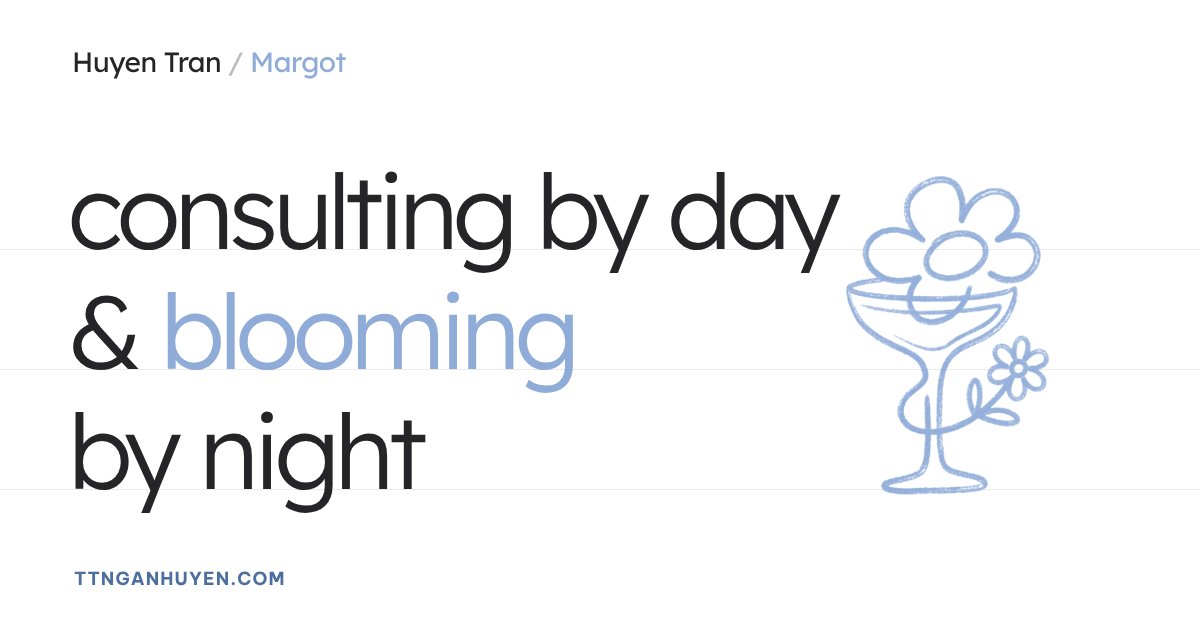
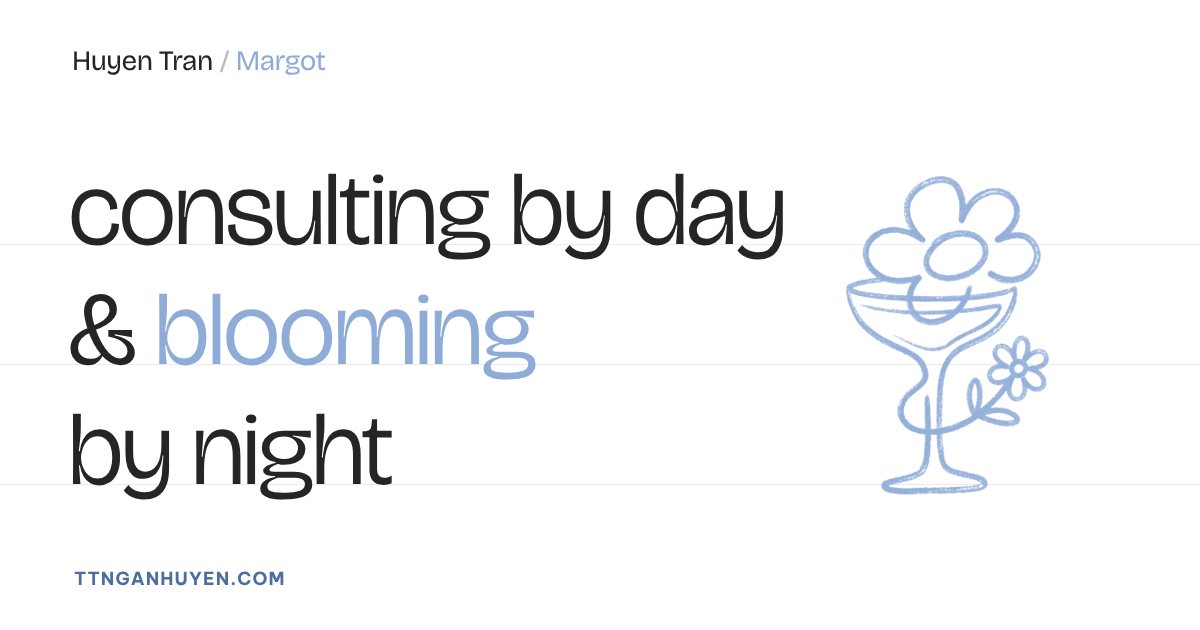
Switch display font from Lexend to Bricolage Grotesque
Loosen display tracking for Vietnamese diacritics, point the name
specimen glyph measuring at the new font, and redraw the og thumbnails.

Claude-Session: https://claude.ai/code/session_01BfwqXqjs3GJHHYhBT2Fe5m

Changed region(s): [[0.0617, 0.2714, 0.7092, 0.6333], [0.0617, 0.6635, 0.37, 0.8143], [0.0617, 0.0603, 0.3083, 0.1206]]

diff --git a/index.html b/index.html
@@ -23,7 +23,7 @@
 <meta name="claude:viewport-fit-sides" content="cover">
 <link rel="preconnect" href="https://fonts.googleapis.com">
 <link rel="preconnect" href="https://fonts.gstatic.com" crossorigin>
-<link rel="stylesheet" href="https://fonts.googleapis.com/css2?family=Lexend:wght@200;300;400;500;700&subset=vietnamese&display=swap">
+<link rel="stylesheet" href="https://fonts.googleapis.com/css2?family=Bricolage+Grotesque:opsz,wght@12..96,200..800&subset=vietnamese&display=swap">
 <style>
 /* Layout: untold-style paper page. Huge light headlines on faint ruled lines, inline photo boxes and hand-drawn figures between words, orange as the one loud colour. Deliberately single (light) theme: the dark loader is "night", the page that opens is "day". */
 :root {
@@ -37,7 +37,7 @@
   --yellow: #f1bf4f;
   --green: #4f9a6b;
   --night: #27272b;
-  --display: "Lexend", "Avenir Next", "Helvetica Neue", Arial, sans-serif;
+  --display: "Bricolage Grotesque", "Avenir Next", "Helvetica Neue", Arial, sans-serif;
   --body: ui-sans-serif, system-ui, -apple-system, "Segoe UI", Roboto, "Helvetica Neue", Arial, sans-serif;
   color-scheme: light;
 }
@@ -66,7 +66,7 @@ a { color: inherit; }
 /* ---------- Work page (untold /work) ---------- */
 .wk-intro { padding-top: clamp(120px, 18vh, 180px); padding-bottom: clamp(40px, 8vh, 90px); }
 .wk-intro .in { position: relative; }
-.wk-h { font-family: var(--display); font-weight: 400; font-size: clamp(3rem, 9.4vw, 9rem); letter-spacing: -0.055em; line-height: 1.12; margin: 26px 0 0; }
+.wk-h { font-family: var(--display); font-weight: 400; font-size: clamp(3rem, 9.4vw, 9rem); letter-spacing: -0.025em; line-height: 1.12; margin: 26px 0 0; }
 .wk-h > span { display: block; }
 @media (max-width: 760px) { .wk-h { font-size: min(3rem, 11vw); } .wk-h > span { white-space: nowrap; } }
 .wk-h .cur { height: .8em; vertical-align: -.04em; }
@@ -75,7 +75,7 @@ a { color: inherit; }
 .wk-item { display: grid; grid-template-columns: 70px minmax(0, 1fr) minmax(0, .62fr); gap: 0 clamp(20px, 3vw, 48px); padding: clamp(36px, 6vh, 64px) 0; border-bottom: 1px solid color-mix(in srgb, var(--ink) 14%, transparent); align-items: start; }
 .wk-mark { font-family: var(--body); font-weight: 800; font-size: .7rem; letter-spacing: .04em; text-transform: uppercase; line-height: 1.1; padding-top: .9em; color: var(--ink); }
 .wk-mark i { display: block; font-style: normal; font-weight: 400; color: var(--mute); margin-top: 4px; }
-.wk-item h3 { font-family: var(--display); font-weight: 300; font-size: clamp(2rem, 3.6vw, 3.4rem); letter-spacing: -0.04em; line-height: 1; text-transform: uppercase; margin: 0 0 22px; }
+.wk-item h3 { font-family: var(--display); font-weight: 300; font-size: clamp(2rem, 3.6vw, 3.4rem); letter-spacing: -0.018em; line-height: 1; text-transform: uppercase; margin: 0 0 22px; }
 .wk-item h3 a { color: inherit; text-decoration: none; } .wk-item h3 a:hover { color: var(--accent-ink); }
 .wk-item p { font-size: .92rem; line-height: 1.65; margin: 0 0 14px; max-width: 560px; color: #333; }
 .wk-item p b { font-weight: 700; color: var(--ink); }
@@ -83,7 +83,7 @@ a { color: inherit; }
 .wk-more b { display: grid; place-items: center; width: 20px; height: 20px; border-radius: 50%; border: 1px solid var(--orange); color: var(--accent-ink); font-size: .7rem; transition: background .3s, color .3s; }
 .wk-more:hover b { background: var(--ink); color: #fff; border-color: var(--ink); }
 .wk-pic { position: relative; aspect-ratio: 4 / 5; border-radius: 4px; overflow: hidden; display: grid; place-items: end start; padding: 18px; color: #fff; text-decoration: none; }
-.wk-pic span { font-family: var(--display); font-weight: 300; font-size: clamp(1.6rem, 3vw, 2.8rem); letter-spacing: -0.04em; line-height: 1; position: relative; }
+.wk-pic span { font-family: var(--display); font-weight: 300; font-size: clamp(1.6rem, 3vw, 2.8rem); letter-spacing: -0.018em; line-height: 1; position: relative; }
 .wk-pic::after { content: "photo coming soon"; position: absolute; top: 14px; right: 14px; font-size: .58rem; font-weight: 700; letter-spacing: .08em; text-transform: uppercase; opacity: .7; }
 .wk-pic { transition: transform .6s cubic-bezier(.2,.7,.2,1); } .wk-pic:hover { transform: scale(1.02); }
 .wk-next { padding-block: clamp(70px, 14vh, 150px); }
@@ -97,8 +97,8 @@ a { color: inherit; }
 .cs-title { display: flex; align-items: center; gap: clamp(16px, 3vw, 40px); }
 .cs-mark { flex: none; font-family: var(--body); font-weight: 800; font-size: .72rem; letter-spacing: .04em; text-transform: uppercase; color: var(--ink); white-space: nowrap; }
 .cs-mark::before { content: "( "; color: var(--mute); font-weight: 400; } .cs-mark::after { content: " )"; color: var(--mute); font-weight: 400; }
-.cs-title h1 { font-family: var(--display); font-weight: 300; font-size: clamp(2.8rem, 8vw, 8rem); letter-spacing: -0.055em; line-height: 1; margin: 0; }
-.cs-hero { margin-top: clamp(28px, 5vh, 56px); aspect-ratio: 16 / 7; border-radius: 4px; display: grid; place-items: center; color: #fff; font-family: var(--display); font-weight: 300; font-size: clamp(2rem, 5vw, 4.6rem); letter-spacing: -0.04em; text-align: center; padding: 20px; }
+.cs-title h1 { font-family: var(--display); font-weight: 300; font-size: clamp(2.8rem, 8vw, 8rem); letter-spacing: -0.025em; line-height: 1; margin: 0; }
+.cs-hero { margin-top: clamp(28px, 5vh, 56px); aspect-ratio: 16 / 7; border-radius: 4px; display: grid; place-items: center; color: #fff; font-family: var(--display); font-weight: 300; font-size: clamp(2rem, 5vw, 4.6rem); letter-spacing: -0.018em; text-align: center; padding: 20px; }
 .cs-body { padding-block: clamp(40px, 8vh, 90px); }
 .cs-grid { display: grid; grid-template-columns: minmax(0, 2fr) minmax(0, 1fr); gap: 32px clamp(32px, 6vw, 96px); }
 .cs-k { display: block; font-size: .62rem; font-weight: 700; letter-spacing: .08em; text-transform: uppercase; color: var(--mute); margin-bottom: 14px; }
@@ -109,11 +109,11 @@ a { color: inherit; }
 .cs-car .in { display: grid; grid-template-columns: auto minmax(0, 1fr) auto; align-items: center; gap: 16px; }
 .cs-frame { overflow: hidden; border-radius: 4px; max-width: 760px; width: 100%; justify-self: center; }
 .cs-track { display: flex; transition: transform .7s cubic-bezier(.6,0,.2,1); }
-.cs-slide { flex: 0 0 100%; aspect-ratio: 16 / 9; display: grid; place-items: center; color: var(--ink); background: color-mix(in srgb, var(--orange) 14%, var(--paper)); border: 1px dashed color-mix(in srgb, var(--accent-ink) 45%, transparent); font-family: var(--display); font-weight: 300; font-size: clamp(1.4rem, 3.4vw, 3rem); letter-spacing: -0.04em; text-align: center; padding: 24px; }
+.cs-slide { flex: 0 0 100%; aspect-ratio: 16 / 9; display: grid; place-items: center; color: var(--ink); background: color-mix(in srgb, var(--orange) 14%, var(--paper)); border: 1px dashed color-mix(in srgb, var(--accent-ink) 45%, transparent); font-family: var(--display); font-weight: 300; font-size: clamp(1.4rem, 3.4vw, 3rem); letter-spacing: -0.018em; text-align: center; padding: 24px; }
 .cs-arr { width: 40px; height: 40px; border-radius: 50%; border: 1px solid var(--orange); background: transparent; color: var(--accent-ink); cursor: pointer; font-size: 1rem; }
 .cs-arr:hover { background: var(--orange); color: var(--ink); }
 .cs-lib { padding-block: clamp(50px, 9vh, 100px) 0; }
-.cs-lib h2 { font-family: var(--display); font-weight: 300; font-size: clamp(2rem, 3.6vw, 3.2rem); letter-spacing: -0.04em; margin: 0 0 26px; }
+.cs-lib h2 { font-family: var(--display); font-weight: 300; font-size: clamp(2rem, 3.6vw, 3.2rem); letter-spacing: -0.018em; margin: 0 0 26px; }
 @media (max-width: 760px) {
   .wk-item { grid-template-columns: minmax(0, 1fr); }
   .wk-mark { padding: 0 0 10px; }
@@ -141,7 +141,7 @@ a { color: inherit; }
 .lg-tedx { flex-direction: row; flex-wrap: wrap; justify-content: center; max-width: 5.6em; font-weight: 900; letter-spacing: -.02em; } .lg-tedx i { font-style: normal; font-weight: 400; } .lg-tedx small { width: 100%; }
 .lg-sinno { font-weight: 700; } .lg-yln { font-weight: 300; letter-spacing: .28em; padding-left: .28em; }
 .lg-msb { font-style: italic; font-weight: 900; font-size: .86rem; letter-spacing: -.02em; }
-.lg-base { font-family: var(--display); font-weight: 700; font-size: 1rem; letter-spacing: -.05em; text-transform: lowercase; }
+.lg-base { font-family: var(--display); font-weight: 700; font-size: 1rem; letter-spacing: -0.023em; text-transform: lowercase; }
 .lg-fti { font-style: italic; font-weight: 900; font-size: .84rem; } .lg-fti small { font-style: normal; }
 .lg-mom { font-weight: 600; letter-spacing: -.01em; }
 .lg-or { font-family: Georgia, serif; font-style: italic; font-weight: 400; font-size: .74rem; letter-spacing: 0; }
@@ -152,7 +152,7 @@ a { color: inherit; }
 .shelf2::-webkit-scrollbar { display: none; }
 .book { position: relative; flex: none; width: var(--w); height: var(--h); background: #eceef1; color: var(--ink); text-decoration: none; display: flex; flex-direction: column; align-items: center; padding: 18px 0 20px; transform: rotate(var(--r)); transform-origin: 50% 100%; transition: transform .55s cubic-bezier(.2,.7,.2,1), background .4s, color .4s; }
 .book .lg { flex: none; transition: color .4s; }
-.book .bt { flex: none; margin: auto 0 0; writing-mode: vertical-rl; transform: rotate(180deg); white-space: nowrap; font-family: var(--display); font-weight: 400; letter-spacing: -0.01em; line-height: 1.15; font-size: min(calc(var(--w) * .3), 1.3rem); }
+.book .bt { flex: none; margin: auto 0 0; writing-mode: vertical-rl; transform: rotate(180deg); white-space: nowrap; font-family: var(--display); font-weight: 400; letter-spacing: -0.005em; line-height: 1.15; font-size: min(calc(var(--w) * .3), 1.3rem); }
 .book.t-u .bt { text-transform: uppercase; font-weight: 500; letter-spacing: .06em; font-size: min(calc(var(--w) * .26), 1rem); }
 .book.t-l .bt { font-weight: 300; font-size: min(calc(var(--w) * .3), 1.3rem); }
 .book .by { position: absolute; left: 50%; bottom: 100%; transform: translate(-50%, -8px); white-space: nowrap; font-style: normal; font-size: .64rem; font-weight: 700; letter-spacing: .06em; color: var(--mute); opacity: 0; transition: opacity .3s; pointer-events: none; }
@@ -176,10 +176,10 @@ a { color: inherit; }
 .eco-pin { position: sticky; top: 0; height: 100vh; overflow: hidden; }
 .eco-a, .eco-b { position: absolute; inset: 0; display: flex; flex-direction: column; align-items: center; justify-content: center; text-align: center; will-change: transform, opacity; }
 section[hidden] { display: none !important; }
-.eco-word { font-family: var(--display); font-weight: 400; font-size: clamp(6rem, 25vw, 23rem); letter-spacing: -0.075em; line-height: .9; margin: 18px 0 26px; padding-right: .06em; }
+.eco-word { font-family: var(--display); font-weight: 400; font-size: clamp(6rem, 25vw, 23rem); letter-spacing: -0.034em; line-height: .9; margin: 18px 0 26px; padding-right: .06em; }
 .eco-a .caption { margin: 0; }
 .eco-word .o { color: var(--orange); }
-.eco-h { font-family: var(--display); font-weight: 400; font-size: clamp(3.4rem, 10.4vw, 9.6rem); letter-spacing: -0.06em; line-height: .98; margin: 22px 0 34px; display: grid; justify-items: center; }
+.eco-h { font-family: var(--display); font-weight: 400; font-size: clamp(3.4rem, 10.4vw, 9.6rem); letter-spacing: -0.027em; line-height: .98; margin: 22px 0 34px; display: grid; justify-items: center; }
 .eco-h .e1 { display: flex; gap: .26em; transform: translateX(-.12em); } .eco-h .e2 { transform: translateX(.08em); } .eco-h .e3 { transform: translateX(.9em); }
 .eco-a { justify-content: flex-start; padding-top: 155px; } .eco-b { padding-top: clamp(0px, calc(30vh - 130px), 140px); opacity: 0; pointer-events: none; } .eco.on-b .eco-b { pointer-events: auto; }
 .eco-dots { position: absolute; inset: 0; pointer-events: none; }
@@ -204,16 +204,16 @@ section[hidden] { display: none !important; }
 @media (min-width: 761px) { .wk-h > span, .soon-h > span { white-space: nowrap; } }
 .soon { padding-block: clamp(130px, 20vh, 200px) clamp(70px, 12vh, 130px); }
 .soon .in { position: relative; }
-.soon-h { font-family: var(--display); font-weight: 400; font-size: clamp(3.2rem, 11vw, 10.4rem); letter-spacing: -0.06em; line-height: 1.02; margin: 26px 0 0; }
+.soon-h { font-family: var(--display); font-weight: 400; font-size: clamp(3.2rem, 11vw, 10.4rem); letter-spacing: -0.027em; line-height: 1.02; margin: 26px 0 0; }
 .soon-h > span { display: block; } .soon-h .s2 { padding-left: 1.1em; color: var(--orange); }
 /* phones: each line stays whole; the second line sits flush right instead of indented */
 @media (max-width: 760px) { .soon-h { font-size: min(3.2rem, 14.2vw); } .soon-h > span { white-space: nowrap; } .soon-h .s2 { padding-left: 0; text-align: right; } } .soon-h .cur { height: .78em; vertical-align: -.04em; }
 #v-consulting .soon-h { font-size: clamp(2rem, 9vw, 9.2rem); } /* longer headline than the other tabs */
-.soon-p { font-family: var(--display); font-weight: 300; font-size: clamp(1.1rem, 1.7vw, 1.5rem); letter-spacing: -0.02em; line-height: 1.45; max-width: 34ch; margin: 34px 0 0; }
+.soon-p { font-family: var(--display); font-weight: 300; font-size: clamp(1.1rem, 1.7vw, 1.5rem); letter-spacing: -0.009em; line-height: 1.45; max-width: 34ch; margin: 34px 0 0; }
 .soon-grid { display: grid; grid-template-columns: repeat(3, minmax(0, 1fr)); gap: clamp(14px, 2vw, 28px); margin-top: clamp(50px, 8vh, 90px); }
 .soon-card { position: relative; border: 1px dashed color-mix(in srgb, var(--accent-ink) 55%, transparent); border-radius: 6px; padding: 26px 24px 30px; min-height: 230px; display: flex; flex-direction: column; overflow: hidden; }
 .soon-card .k { font-size: .62rem; font-weight: 700; letter-spacing: .08em; text-transform: uppercase; color: var(--mute); }
-.soon-card h3 { font-family: var(--display); font-weight: 400; font-size: clamp(1.5rem, 2.2vw, 2.1rem); letter-spacing: -0.035em; line-height: 1.08; margin: 14px 0 12px; }
+.soon-card h3 { font-family: var(--display); font-weight: 400; font-size: clamp(1.5rem, 2.2vw, 2.1rem); letter-spacing: -0.016em; line-height: 1.08; margin: 14px 0 12px; }
 .soon-card p { font-size: .9rem; line-height: 1.6; color: #444; margin: 0; }
 .soon-card .tag { margin-top: auto; padding-top: 22px; font-size: .64rem; font-weight: 700; letter-spacing: .08em; text-transform: uppercase; color: var(--accent-ink); display: flex; align-items: center; gap: 8px; }
 .soon-card .tag::before { content: ""; width: 7px; height: 7px; border-radius: 50%; background: var(--orange); }
@@ -230,7 +230,7 @@ section[hidden] { display: none !important; }
 header.site { position: fixed; top: 0; left: 0; right: 0; z-index: 40; padding-top: calc(env(safe-area-inset-top, 0px) + 22px); padding-bottom: 14px; transition: background .3s; }
 header.site.scrolled { background: color-mix(in srgb, var(--paper) 86%, transparent); backdrop-filter: blur(6px); }
 header.site .in { display: grid; grid-template-columns: auto 1fr auto; align-items: center; gap: 16px; }
-.logo { font-family: var(--display); font-weight: 300; font-size: clamp(1.1rem, 1.6vw, 1.5rem); letter-spacing: -0.03em; text-decoration: none; white-space: nowrap; }
+.logo { font-family: var(--display); font-weight: 300; font-size: clamp(1.1rem, 1.6vw, 1.5rem); letter-spacing: -0.013em; text-decoration: none; white-space: nowrap; }
 .logo .sl { color: var(--orange); margin: 0 .12em; }
 .logo .cur { width: 1.5px; }
 .logo .mg { color: var(--orange); } .logo .cur { background: var(--orange); } #menu .logo .mg { color: #fff; }
@@ -267,7 +267,7 @@ nav.main a:hover::before { transform: scale(1); }
 .close { width: 64px; height: 64px; border-radius: 50%; background: #fff; border: 0; cursor: pointer; display: grid; place-items: center; color: var(--orange); font-size: 1.4rem; transition: transform .3s; }
 .close:hover { transform: rotate(90deg); }
 #menu .grid { position: relative; display: grid; grid-template-columns: 1fr 1fr; align-content: center; gap: 2vh 6vw; }
-#menu .grid a { white-space: nowrap; font-family: var(--display); font-weight: 300; font-size: clamp(2.2rem, min(6.6vw, 11vh), 7rem); line-height: 1.05; letter-spacing: -0.045em; text-decoration: none; position: relative; z-index: 1; padding-bottom: .08em; transition: color .25s, transform .35s; }
+#menu .grid a { white-space: nowrap; font-family: var(--display); font-weight: 300; font-size: clamp(2.2rem, min(6.6vw, 11vh), 7rem); line-height: 1.05; letter-spacing: -0.020em; text-decoration: none; position: relative; z-index: 1; padding-bottom: .08em; transition: color .25s, transform .35s; }
 #menu .grid a:nth-of-type(even), #menu .grid a.m-right { text-align: right; } #menu .grid a.m-right { grid-column: 2; }
 #menu .grid a.m-right:hover { transform: translateX(-12px); }
 #menu .grid a:hover { color: #fff; transform: translateX(12px); }
@@ -276,7 +276,7 @@ nav.main a:hover::before { transform: scale(1); }
 #menu .thread path { fill: none; stroke: #fff; stroke-width: 2.5; stroke-linecap: round; stroke-dasharray: 1; stroke-dashoffset: 1; }
 #menu.open .thread path { transition: stroke-dashoffset 1.8s cubic-bezier(.45,.05,.3,1) .35s; stroke-dashoffset: 0; }
 #menu .bottom { display: flex; justify-content: space-between; align-items: end; flex-wrap: wrap; gap: 16px; }
-#menu .tagline { font-family: var(--display); font-weight: 300; font-size: clamp(1.3rem, 2.6vw, 2.4rem); letter-spacing: -0.03em; margin: 0; }
+#menu .tagline { font-family: var(--display); font-weight: 300; font-size: clamp(1.3rem, 2.6vw, 2.4rem); letter-spacing: -0.013em; margin: 0; }
 #menu .pill { display: flex; align-items: center; gap: 12px; font-weight: 700; font-size: .8rem; }
 #menu .pill button { font: inherit; background: none; border: 1.5px solid #fff; border-radius: 999px; padding: 8px 18px; cursor: pointer; color: var(--ink); }
 #menu .pill button[aria-pressed="true"] { background: #fff; }
@@ -287,7 +287,7 @@ nav.main a:hover::before { transform: scale(1); }
 .rules { position: absolute; inset: 0; pointer-events: none; opacity: 0; transition: opacity .8s; }
 .rules.on { opacity: 1; }
 .rules div { position: absolute; height: 1px; background: color-mix(in srgb, var(--ink) 6%, transparent); transform: scaleY(.6); transform-origin: top; }
-.big { font-family: var(--display); font-weight: 400; letter-spacing: -0.055em; line-height: 1.02; font-size: clamp(2.4rem, min(9.6vw, 16.8vh), 8.7rem); margin: 0; position: relative; z-index: 1; }
+.big { font-family: var(--display); font-weight: 400; letter-spacing: -0.025em; line-height: 1.02; font-size: clamp(2.4rem, min(9.6vw, 16.8vh), 8.7rem); margin: 0; position: relative; z-index: 1; }
 .big .ln { display: flex; align-items: baseline; gap: 0.08em; white-space: nowrap; }
 .big .bl { display: inline-block; width: 0; height: 0; }
 .big .l1 { padding-left: 1%; }
@@ -389,7 +389,7 @@ body.ready .reveal .d1 { transition-delay: .05s; } body.ready .reveal .d2 { tran
 .scroll span { writing-mode: vertical-rl; transform: rotate(180deg); font-weight: 700; font-size: .72rem; letter-spacing: .04em; }
 .scroll i { width: 38px; height: 38px; border: 1.5px solid var(--orange); border-radius: 50%; display: grid; place-items: center; color: var(--orange); animation: bob 2s ease-in-out infinite; transition: background .3s, color .3s; }
 .scroll:hover i { background: var(--orange); color: #fff; }
-.hero .side em { font-family: var(--display); font-style: normal; font-weight: 400; font-size: 1.05em; letter-spacing: -0.01em; line-height: 1.5; display: block; margin: 0 0 .5em; }
+.hero .side em { font-family: var(--display); font-style: normal; font-weight: 400; font-size: 1.05em; letter-spacing: -0.005em; line-height: 1.5; display: block; margin: 0 0 .5em; }
 
 .btn { display: inline-flex; align-items: center; gap: 10px; background: var(--orange); color: var(--ink); text-decoration: none; font-weight: 700; text-transform: uppercase; letter-spacing: 0.03em; padding: 12px 20px; border: 0; cursor: pointer; font-family: var(--body); font-size: .76rem; line-height: 1; transition: background .3s, color .3s; }
 .btn::before { content: ""; width: 6px; height: 6px; border-radius: 50%; background: #fff; transition: transform .3s; }
@@ -401,10 +401,10 @@ body.ready .reveal .d1 { transition-delay: .05s; } body.ready .reveal .d2 { tran
 /* ---------- Sections ---------- */
 section.s { padding-block: clamp(26px, 4.5vh, 54px); position: relative; }
 .center { text-align: center; }
-.statement { font-family: var(--display); font-weight: 300; font-size: clamp(1.6rem, 3.2vw, 3.2rem); line-height: 1.25; letter-spacing: -0.04em; max-width: 26ch; margin: 28px auto 0; text-wrap: pretty; }
+.statement { font-family: var(--display); font-weight: 300; font-size: clamp(1.6rem, 3.2vw, 3.2rem); line-height: 1.25; letter-spacing: -0.018em; max-width: 26ch; margin: 28px auto 0; text-wrap: pretty; }
 .hl { background: linear-gradient(var(--ink), var(--ink)) no-repeat 0 0 / 0% 100%; transition: background-size .9s cubic-bezier(.6,0,.2,1), color .5s; padding: 0 .08em; -webkit-box-decoration-break: clone; box-decoration-break: clone; }
 .hl.lit, .hl:hover { background-size: 100% 100%; color: var(--paper); }
-.names-h { font-family: var(--display); font-weight: 300; font-size: clamp(1.8rem, 3.4vw, 3.2rem); letter-spacing: -0.04em; line-height: 1.15; margin: 24px 0 0; }
+.names-h { font-family: var(--display); font-weight: 300; font-size: clamp(1.8rem, 3.4vw, 3.2rem); letter-spacing: -0.018em; line-height: 1.15; margin: 24px 0 0; }
 /* About: a type specimen of her three names, after her "Bút ký / Ký danh" page */
 .spec { margin-top: clamp(28px, 5vh, 56px); }
 .spec-scroll { overflow-x: auto; scrollbar-width: none; }
@@ -451,7 +451,7 @@ section.s { padding-block: clamp(26px, 4.5vh, 54px); position: relative; }
 .nc-reset, .nc-reset * { transition: none !important; }
 .spec.hieu { display: flex; align-items: flex-end; justify-content: space-between; gap: 40px; flex-wrap: wrap; }
 .spec.hieu .tale { width: min(420px, 100%); margin-bottom: .6em; }
-.margot { font-family: var(--display); font-weight: 200; font-style: italic; color: var(--ink); font-size: clamp(3rem, 8.6vw, 8.2rem); line-height: 1; letter-spacing: -0.02em; margin-left: auto; white-space: nowrap; }
+.margot { font-family: var(--display); font-weight: 200; font-style: italic; color: var(--ink); font-size: clamp(3rem, 8.6vw, 8.2rem); line-height: 1; letter-spacing: -0.009em; margin-left: auto; white-space: nowrap; }
 .margot .cur { width: 2px; min-width: 2px; }
 .margot { position: relative; }
 .margot .mg-guides { position: absolute; left: -.2em; top: 0; height: 100%; overflow: visible; pointer-events: none; z-index: -1; }
@@ -464,11 +464,11 @@ section.s { padding-block: clamp(26px, 4.5vh, 54px); position: relative; }
 }
 .doodle { width: clamp(120px, 14vw, 200px); height: auto; display: block; }
 
-.typed { font-family: var(--display); font-weight: 400; font-size: clamp(2.6rem, 7vw, 7rem); line-height: .98; letter-spacing: -0.055em; margin: 22px 0 0; }
+.typed { font-family: var(--display); font-weight: 400; font-size: clamp(2.6rem, 7vw, 7rem); line-height: .98; letter-spacing: -0.025em; margin: 22px 0 0; }
 .typed > span { display: block; }
 .circles { display: flex; flex-wrap: wrap; justify-content: center; gap: 0; margin-top: 64px; }
 .circle { width: clamp(130px, 12vw, 180px); aspect-ratio: 1; max-width: 100%; border-radius: 50%; border: 1.5px solid var(--orange); display: grid; place-items: center; text-align: center; padding: 18px; margin: 0 -10px; background: color-mix(in srgb, var(--paper) 70%, transparent); backdrop-filter: blur(4px); transition: background .35s, transform .35s, color .35s; position: relative; }
-.circle .n { font-family: var(--display); font-size: clamp(1.05rem, 1.5vw, 1.4rem); letter-spacing: -0.02em; line-height: 1.1; }
+.circle .n { font-family: var(--display); font-size: clamp(1.05rem, 1.5vw, 1.4rem); letter-spacing: -0.009em; line-height: 1.1; }
 .circle .r { font-size: .78rem; color: var(--mute); margin-top: 6px; }
 .circle:hover { background: var(--orange); transform: translateY(-10px); z-index: 2; }
 .circle:hover .r { color: var(--ink); }
@@ -476,11 +476,11 @@ section.s { padding-block: clamp(26px, 4.5vh, 54px); position: relative; }
 .caption b { font-weight: 700; }
 
 .split { display: grid; grid-template-columns: minmax(0, 5fr) minmax(0, 7fr); gap: 48px; align-items: end; }
-.split h2, .headline { font-family: var(--display); font-weight: 300; font-size: clamp(2.4rem, 5.4vw, 5.4rem); line-height: .98; letter-spacing: -0.05em; margin: 18px 0 0; }
+.split h2, .headline { font-family: var(--display); font-weight: 300; font-size: clamp(2.4rem, 5.4vw, 5.4rem); line-height: .98; letter-spacing: -0.023em; margin: 18px 0 0; }
 .rows { list-style: none; margin: 0; padding: 0; border-top: 1.5px solid var(--ink); }
 .rows li a { display: grid; grid-template-columns: 5rem minmax(0, 1fr) auto; gap: 16px; align-items: baseline; padding: 22px 12px; border-bottom: 1px solid color-mix(in srgb, var(--ink) 18%, transparent); text-decoration: none; transition: background .3s, color .3s, padding .3s; }
 .rows .y { font-size: .85rem; color: var(--mute); font-variant-numeric: tabular-nums; }
-.rows .t { font-family: var(--display); font-size: clamp(1.3rem, 2.2vw, 2rem); letter-spacing: -0.03em; line-height: 1.15; }
+.rows .t { font-family: var(--display); font-size: clamp(1.3rem, 2.2vw, 2rem); letter-spacing: -0.013em; line-height: 1.15; }
 .rows .t small { display: block; font-family: var(--body); font-size: .9rem; letter-spacing: 0; color: var(--mute); margin-top: 4px; }
 .rows .ar { font-size: 1.4rem; transition: transform .3s; }
 .rows li a:hover { background: var(--ink); color: var(--paper); padding-left: 22px; }
@@ -494,8 +494,8 @@ section.s { padding-block: clamp(26px, 4.5vh, 54px); position: relative; }
 .community .note mark { background: var(--ink); color: var(--paper); padding: 0 .3em; }
 
 .notes { position: relative; min-height: 540px; margin-top: 24px; }
-.notes .bg { position: absolute; inset: 0; display: grid; place-items: center; font-family: var(--display); font-size: clamp(3.5rem, 11vw, 11rem); letter-spacing: -0.06em; line-height: .9; text-align: center; color: var(--ink); pointer-events: none; }
-.sticky { position: absolute; width: clamp(200px, 18vw, 280px); aspect-ratio: 1; max-width: 80vw; padding: 26px; font-family: var(--display); font-weight: 300; font-size: clamp(1.2rem, 1.7vw, 1.6rem); line-height: 1.15; letter-spacing: -0.035em; box-shadow: 0 18px 40px rgba(0,0,0,.14); cursor: pointer; transition: transform .6s cubic-bezier(.2,.8,.2,1); border: 0; text-align: left; color: var(--ink); }
+.notes .bg { position: absolute; inset: 0; display: grid; place-items: center; font-family: var(--display); font-size: clamp(3.5rem, 11vw, 11rem); letter-spacing: -0.027em; line-height: .9; text-align: center; color: var(--ink); pointer-events: none; }
+.sticky { position: absolute; width: clamp(200px, 18vw, 280px); aspect-ratio: 1; max-width: 80vw; padding: 26px; font-family: var(--display); font-weight: 300; font-size: clamp(1.2rem, 1.7vw, 1.6rem); line-height: 1.15; letter-spacing: -0.016em; box-shadow: 0 18px 40px rgba(0,0,0,.14); cursor: pointer; transition: transform .6s cubic-bezier(.2,.8,.2,1); border: 0; text-align: left; color: var(--ink); }
 .sticky b { background: var(--ink); color: var(--paper); font-weight: 400; padding: 0 .1em; }
 .sticky small { display: block; font-family: var(--body); font-size: .95rem; letter-spacing: 0; margin-top: 18px; line-height: 1.5; }
 .sticky.o { background: var(--orange); } .sticky.b { background: #dfe8f6; } .sticky.y { background: #e9ebef; } .sticky.g { background: var(--green); }
@@ -507,7 +507,7 @@ section.s { padding-block: clamp(26px, 4.5vh, 54px); position: relative; }
 .post .thumb img { width: 58%; height: auto; transition: transform .6s cubic-bezier(.2,.8,.2,1); }
 .post:hover .thumb img { transform: rotate(-8deg) scale(1.08); }
 .post .k { font-weight: 700; font-size: .75rem; letter-spacing: .04em; text-transform: uppercase; color: var(--mute); }
-.post h3 { margin: 0; font-family: var(--display); font-weight: 400; font-size: clamp(1.3rem, 2vw, 1.8rem); letter-spacing: -0.03em; line-height: 1.15; }
+.post h3 { margin: 0; font-family: var(--display); font-weight: 400; font-size: clamp(1.3rem, 2vw, 1.8rem); letter-spacing: -0.013em; line-height: 1.15; }
 .post p { margin: 0; color: var(--mute); }
 .post .badge { justify-self: start; border: 1.5px solid var(--ink); border-radius: 999px; padding: 3px 12px; font-size: .72rem; font-weight: 700; text-transform: uppercase; letter-spacing: .03em; }
 
@@ -515,7 +515,7 @@ section.s { padding-block: clamp(26px, 4.5vh, 54px); position: relative; }
 section.final { padding-bottom: 96px; } /* button → footer matches the ~96px gap between other sections */
 .final .headline { margin: -36px auto 40px; white-space: nowrap; font-size: clamp(1.3rem, 4.8vw, 2.6rem); }
 .believe .bl-label { position: absolute; left: 0; right: 0; text-align: center; bottom: calc(50% + var(--gw) * .55 + 22px); z-index: 1; }
-.mail { font-family: var(--display); font-size: clamp(1.2rem, 2.4vw, 2rem); letter-spacing: -0.02em; user-select: all; display: block; margin-top: 28px; }
+.mail { font-family: var(--display); font-size: clamp(1.2rem, 2.4vw, 2rem); letter-spacing: -0.009em; user-select: all; display: block; margin-top: 28px; }
 
 footer { padding-block: 40px 48px; border-top: 1px solid color-mix(in srgb, var(--ink) 15%, transparent); }
 footer .in { display: flex; flex-wrap: wrap; justify-content: space-between; gap: 20px; font-size: .85rem; }
@@ -535,7 +535,7 @@ footer .n { color: var(--orange); margin-right: 6px; font-weight: 400; }
 
 /* ---------- Home summary teasers (after untold's home) ---------- */
 .tz .btn { margin-top: 28px; }
-.places { max-width: 820px; margin: 24px auto 0; font-family: var(--display); font-weight: 300; font-size: clamp(1.2rem, 2vw, 1.75rem); line-height: 1.6; letter-spacing: -0.03em; }
+.places { max-width: 820px; margin: 24px auto 0; font-family: var(--display); font-weight: 300; font-size: clamp(1.2rem, 2vw, 1.75rem); line-height: 1.6; letter-spacing: -0.013em; }
 .places .p { white-space: nowrap; }
 .places .next { display: block; margin-top: .3em; }
 .places .flag { width: .78em; height: .52em; vertical-align: .05em; margin-left: .1em; border-radius: 1px; box-shadow: 0 0 0 .5px rgba(0,0,0,.18); }
@@ -543,7 +543,7 @@ footer .n { color: var(--orange); margin-right: 6px; font-weight: 400; }
 .shelf { display: flex; justify-content: center; align-items: flex-end; gap: 6px; height: clamp(300px, 46vh, 440px); margin-top: 56px; }
 .spine { position: relative; height: var(--h); width: var(--w); flex: none; background: #e7e9ed; text-decoration: none; display: flex; flex-direction: column; align-items: center; justify-content: space-between; padding: 14px 0; transition: width .5s cubic-bezier(.2,.7,.2,1), background .4s, color .4s, transform .5s cubic-bezier(.2,.7,.2,1); }
 .spine.dk { background: #d3d7de; }
-.spine b { writing-mode: vertical-rl; transform: rotate(180deg); font-family: var(--display); font-weight: 400; font-size: clamp(1rem, 1.6vw, 1.45rem); letter-spacing: -0.02em; white-space: nowrap; order: 2; }
+.spine b { writing-mode: vertical-rl; transform: rotate(180deg); font-family: var(--display); font-weight: 400; font-size: clamp(1rem, 1.6vw, 1.45rem); letter-spacing: -0.009em; white-space: nowrap; order: 2; }
 .spine b { display: flex; gap: 4px; align-items: flex-start; font-size: clamp(.82rem, 1.2vw, 1.15rem); }
 .spine { overflow: hidden; }
 .spine .role { font-family: var(--body); font-size: .5em; letter-spacing: .06em; text-transform: uppercase; color: var(--accent-ink); font-weight: 700; }
@@ -552,20 +552,20 @@ footer .n { color: var(--orange); margin-right: 6px; font-weight: 400; }
 .shelf-foot { display: flex; justify-content: space-between; gap: 16px; flex-wrap: wrap; border-top: 1px solid var(--rule); padding-top: 14px; margin: 0 auto; max-width: 900px; font-size: .74rem; font-weight: 700; letter-spacing: .04em; text-transform: uppercase; }
 .shelf-foot a { color: var(--accent-ink); }
 .orbit { position: relative; margin-top: 40px; display: grid; place-items: center; }
-.orbit .ow { font-family: var(--display); font-weight: 400; font-size: clamp(5rem, 19vw, 18rem); letter-spacing: -0.07em; line-height: 1; }
+.orbit .ow { font-family: var(--display); font-weight: 400; font-size: clamp(5rem, 19vw, 18rem); letter-spacing: -0.032em; line-height: 1; }
 .rings { position: absolute; inset: 0; display: flex; justify-content: center; align-items: center; }
-.rings span { width: clamp(96px, 12vw, 170px); aspect-ratio: 1; border-radius: 50%; margin: 0 calc(clamp(96px, 12vw, 170px) * -0.12); border: 1px solid var(--orange); background: color-mix(in srgb, var(--paper) 55%, transparent); -webkit-backdrop-filter: blur(6px); backdrop-filter: blur(6px); display: grid; place-items: center; text-align: center; font-family: var(--display); font-size: clamp(.72rem, 1vw, 1rem); line-height: 1.15; letter-spacing: -0.01em; transition: transform .5s cubic-bezier(.2,.7,.2,1), background .4s; }
+.rings span { width: clamp(96px, 12vw, 170px); aspect-ratio: 1; border-radius: 50%; margin: 0 calc(clamp(96px, 12vw, 170px) * -0.12); border: 1px solid var(--orange); background: color-mix(in srgb, var(--paper) 55%, transparent); -webkit-backdrop-filter: blur(6px); backdrop-filter: blur(6px); display: grid; place-items: center; text-align: center; font-family: var(--display); font-size: clamp(.72rem, 1vw, 1rem); line-height: 1.15; letter-spacing: -0.005em; transition: transform .5s cubic-bezier(.2,.7,.2,1), background .4s; }
 .rings span:nth-child(even) { transform: translateY(18%); }
 .rings span:hover { transform: translateY(-10%) scale(1.06); background: color-mix(in srgb, var(--paper) 85%, transparent); z-index: 2; }
 .ruled { background-image: repeating-linear-gradient(to bottom, transparent 0, transparent calc(clamp(64px, 9vw, 120px) - 1px), color-mix(in srgb, var(--ink) 6%, transparent) calc(clamp(64px, 9vw, 120px) - 1px), color-mix(in srgb, var(--ink) 6%, transparent) clamp(64px, 9vw, 120px)); }
-.big2 { font-family: var(--display); font-weight: 400; font-size: clamp(3rem, 8vw, 8rem); letter-spacing: -0.055em; line-height: 1.05; margin: 28px 0 0; }
+.big2 { font-family: var(--display); font-weight: 400; font-size: clamp(3rem, 8vw, 8rem); letter-spacing: -0.025em; line-height: 1.05; margin: 28px 0 0; }
 .big2 > span { display: flex; justify-content: center; align-items: center; gap: .18em; white-space: nowrap; }
 .big2 .r2 { padding-left: 10%; }
 .big2 .folder { width: .9em; height: .65em; overflow: visible; transition: transform .5s; }
 .folder .scrib { filter: url(#pencil); } .folder .scrib path { fill: none; stroke: #bcbdc1; stroke-width: 1.2 !important; stroke-linecap: round; stroke-linejoin: round; } .folder .scrib .ol { stroke: #8d8e93; stroke-width: 1.8 !important; }
 .big2 .folder:hover { transform: rotate(-6deg) translateY(-.06em); }
 .big2 img { height: .95em; width: auto; }
-.lede { font-family: var(--display); font-weight: 300; font-size: clamp(1.1rem, 1.8vw, 1.6rem); letter-spacing: -0.03em; line-height: 1.35; max-width: 640px; margin: 28px auto 0; min-height: 2.7em; }
+.lede { font-family: var(--display); font-weight: 300; font-size: clamp(1.1rem, 1.8vw, 1.6rem); letter-spacing: -0.013em; line-height: 1.35; max-width: 640px; margin: 28px auto 0; min-height: 2.7em; }
 .believe { --gw: clamp(240px, 30vw, 400px); min-height: max(min(64vh, 540px), calc(var(--gw) * 1.19 + 190px)); padding-bottom: 96px; display: flex; align-items: center; overflow: hidden; position: relative; }
 .believe .statement { white-space: pre-line; max-width: none; min-height: 2.5em; font-size: clamp(.95rem, 2vw, 1.75rem); }
 section.believe { position: relative; } .believe .statement { position: relative; z-index: 1; } .believe .keep { z-index: 1; }
@@ -586,7 +586,7 @@ section.believe { position: relative; } .believe .statement { position: relative
 .vhead .back:hover { color: var(--orange); }
 .vhead .vt { display: flex; align-items: baseline; gap: 24px; margin-top: 28px; border-bottom: 1px solid var(--rule); }
 .vhead .num { font-weight: 700; font-size: .8rem; color: var(--accent-ink); }
-.vhead h1 { font-family: var(--display); font-weight: 400; font-size: clamp(3.4rem, 10vw, 10rem); letter-spacing: -0.06em; line-height: 1; margin: 0; }
+.vhead h1 { font-family: var(--display); font-weight: 400; font-size: clamp(3.4rem, 10vw, 10rem); letter-spacing: -0.027em; line-height: 1; margin: 0; }
 .view > section.s:first-of-type { padding-top: clamp(48px, 8vh, 96px); }
 nav.main a.on::before { transform: scale(1); }
 
@@ -594,13 +594,13 @@ nav.main a.on::before { transform: scale(1); }
 footer.dark { background: var(--night); color: #f3f2ed; border: 0; padding-block: clamp(56px, 9vh, 96px) 32px; }
 footer.dark .in { display: grid; grid-template-columns: minmax(0, 5fr) minmax(0, 7fr); gap: 32px 48px; font-size: 1rem; }
 footer.dark .fl { display: grid; align-content: start; gap: 24px; }
-footer.dark .wm { font-family: var(--display); font-weight: 300; font-size: clamp(4rem, 9vw, 8.5rem); letter-spacing: -0.06em; line-height: 1; text-transform: none; color: #fff; }
+footer.dark .wm { font-family: var(--display); font-weight: 300; font-size: clamp(4rem, 9vw, 8.5rem); letter-spacing: -0.027em; line-height: 1; text-transform: none; color: #fff; }
 footer.dark .fsig { width: clamp(160px, 18vw, 260px); height: auto; overflow: visible; }
 footer.dark .fsig path { fill: none; stroke: #fff; stroke-width: 9; stroke-linecap: round; stroke-linejoin: round; }
 footer.dark .fsig path + path { stroke-width: 6; }
 footer.dark .fnav { display: block; }
 footer.dark .fnav li { border-bottom: 1px solid rgba(255,255,255,.1); }
-footer.dark .fnav a { display: flex; justify-content: space-between; align-items: baseline; padding: 12px 0; font-family: var(--display); font-weight: 300; font-size: clamp(1.3rem, 2.3vw, 2rem); letter-spacing: -0.03em; text-transform: uppercase; color: #fff; }
+footer.dark .fnav a { display: flex; justify-content: space-between; align-items: baseline; padding: 12px 0; font-family: var(--display); font-weight: 300; font-size: clamp(1.3rem, 2.3vw, 2rem); letter-spacing: -0.013em; text-transform: uppercase; color: #fff; }
 footer.dark .fnav .n { color: #fff; font-weight: 300; }
 footer.dark .fnav a:hover .t::before { content: "( "; } footer.dark .fnav a:hover .t::after { content: " )"; }
 footer.dark .fnav a:hover { color: var(--orange); }
@@ -661,14 +661,14 @@ footer.dark .wm.sur { color: var(--orange); margin-top: -.12em; }
 footer.dark { background: var(--orange); color: var(--ink); }
 footer.dark .wm, footer.dark .fnav a, footer.dark .fnav .n, footer.dark .follow a { color: var(--ink); }
 footer.dark .wm.sur { color: #fff; }
-footer.dark .now { justify-self: start; font-family: var(--display); font-weight: 300; font-size: clamp(1.7rem, 3.2vw, 2.8rem); letter-spacing: -0.05em; line-height: 1; font-variant-numeric: tabular-nums; white-space: nowrap; background: #fff; color: var(--ink); padding: .08em .14em .12em; margin-top: -4px; }
+footer.dark .now { justify-self: start; font-family: var(--display); font-weight: 300; font-size: clamp(1.7rem, 3.2vw, 2.8rem); letter-spacing: -0.023em; line-height: 1; font-variant-numeric: tabular-nums; white-space: nowrap; background: #fff; color: var(--ink); padding: .08em .14em .12em; margin-top: -4px; }
 footer.dark .fnav li { border-bottom-color: color-mix(in srgb, var(--ink) 18%, transparent); }
 footer.dark .fnav a:hover, footer.dark .follow a:hover { color: #fff; }
 footer.dark .fb { color: color-mix(in srgb, var(--ink) 70%, transparent); }
 #talk { border: 0; padding: 0; width: min(520px, calc(100vw - 32px)); background: var(--paper); color: var(--ink); box-shadow: 0 30px 80px rgba(0,0,0,.25); }
 #talk::backdrop { background: color-mix(in srgb, var(--orange) 55%, transparent); }
 #talk form { display: grid; gap: 16px; padding: 34px 30px 28px; position: relative; }
-#talk h3 { font-family: var(--display); font-weight: 300; font-size: clamp(1.8rem, 4vw, 2.4rem); letter-spacing: -0.04em; line-height: 1.05; margin: 0 0 6px; }
+#talk h3 { font-family: var(--display); font-weight: 300; font-size: clamp(1.8rem, 4vw, 2.4rem); letter-spacing: -0.018em; line-height: 1.05; margin: 0 0 6px; }
 #talk label { display: grid; gap: 6px; font-size: .74rem; font-weight: 700; letter-spacing: .04em; text-transform: uppercase; }
 #talk input, #talk textarea { font: inherit; font-size: 1rem; font-weight: 400; letter-spacing: 0; text-transform: none; border: 0; border-bottom: 1px solid var(--rule); padding: 8px 0; background: transparent; color: var(--ink); resize: vertical; }
 #talk input:focus, #talk textarea:focus { outline: none; border-bottom-color: var(--orange); }
@@ -792,7 +792,7 @@ footer.dark .fb { color: color-mix(in srgb, var(--ink) 70%, transparent); }
 .post-card .pc-img img { width: 100%; height: 100%; object-fit: cover; object-position: center 62%; display: block; }
 .post-card p { display: -webkit-box; -webkit-line-clamp: 5; -webkit-box-orient: vertical; overflow: hidden; }
 .post-card .tag.read::before { animation: none; }
-.post-head h1 { font-family: var(--display); font-weight: 300; font-size: clamp(3rem, 9vw, 8rem); letter-spacing: -0.055em; line-height: 1; margin: 12px 0 0; }
+.post-head h1 { font-family: var(--display); font-weight: 300; font-size: clamp(3rem, 9vw, 8rem); letter-spacing: -0.025em; line-height: 1; margin: 12px 0 0; }
 .post-k { font-size: .62rem; font-weight: 700; letter-spacing: .08em; text-transform: uppercase; color: var(--mute); }
 .post-body { padding-block: clamp(28px, 6vh, 64px) clamp(60px, 12vh, 120px); }
 .post-body .in { max-width: 900px; }
@@ -1285,7 +1285,7 @@ the puzzles</h2>
   var NS = 'http://www.w3.org/2000/svg';
   function mk(p, tag, attrs, txt) { var e = document.createElementNS(NS, tag); for (var k in attrs) e.setAttribute(k, attrs[k]); if (txt != null) e.textContent = txt; p.appendChild(e); return e; }
   function metric(weight, italic) {
-    var c = document.createElement('canvas').getContext('2d'); c.font = (italic ? 'italic ' : '') + weight + ' 100px Lexend';
+    var c = document.createElement('canvas').getContext('2d'); c.font = (italic ? 'italic ' : '') + weight + ' 100px "Bricolage Grotesque"';
     function asc(t) { return c.measureText(t).actualBoundingBoxAscent / 100; }
     return { cap: asc('H'), xh: asc('x'), asc: asc('l'), acc: asc('ề'), desc: c.measureText('g').actualBoundingBoxDescent / 100, w: function (t) { return c.measureText(t).width / 100; } };
   }
@@ -1316,7 +1316,7 @@ the puzzles</h2>
   function ink(ch, F, italic) {
     var pad = Math.ceil(F * .5), W = Math.ceil(F * 1.6) + pad * 2, Hh = Math.ceil(F * 2), by = Math.ceil(F * 1.3);
     var cv = document.createElement('canvas'); cv.width = W; cv.height = Hh;
-    var c = cv.getContext('2d'); c.font = (italic ? 'italic ' : '') + '200 ' + F + 'px Lexend'; c.fillStyle = '#000'; c.fillText(ch, pad, by);
+    var c = cv.getContext('2d'); c.font = (italic ? 'italic ' : '') + '200 ' + F + 'px "Bricolage Grotesque"'; c.fillStyle = '#000'; c.fillText(ch, pad, by);
     var d = c.getImageData(0, 0, W, Hh).data, top = Hh, bot = 0;
     for (var y = 0; y < Hh; y++) for (var x = 0; x < W; x++) if (d[(y * W + x) * 4 + 3] > 90) { if (y < top) top = y; if (y > bot) bot = y; }
     return { top: by - top, bot: bot - by, cv: cv, c: c, d: d, W: W, H: Hh, pad: pad, by: by };
@@ -1514,7 +1514,7 @@ the puzzles</h2>
     }, { threshold: .2 });
     specIO.observe(document.getElementById('sp-danh')); specIO.observe(document.getElementById('sp-tu')); specIO.observe(document.querySelector('.margot'));
   }
-  if (document.fonts && document.fonts.load) Promise.all([document.fonts.load('200 100px Lexend', 'Ngân Huyền ề'), document.fonts.load('italic 200 100px Lexend', 'Pie At Ounl ề'), document.fonts.load("400 21px system-ui")]).then(initSpecs, initSpecs); else initSpecs();
+  if (document.fonts && document.fonts.load) Promise.all([document.fonts.load('200 100px "Bricolage Grotesque"', 'Ngân Huyền ề'), document.fonts.load('italic 200 100px "Bricolage Grotesque"', 'Pie At Ounl ề'), document.fonts.load("400 21px system-ui")]).then(initSpecs, initSpecs); else initSpecs();
 
   // Hero rules: one hairline exactly on each headline baseline; the (*) note sits on the last one
   var hero = document.getElementById('hero'), rulesEl = document.getElementById('rules'), side = document.getElementById('side');
